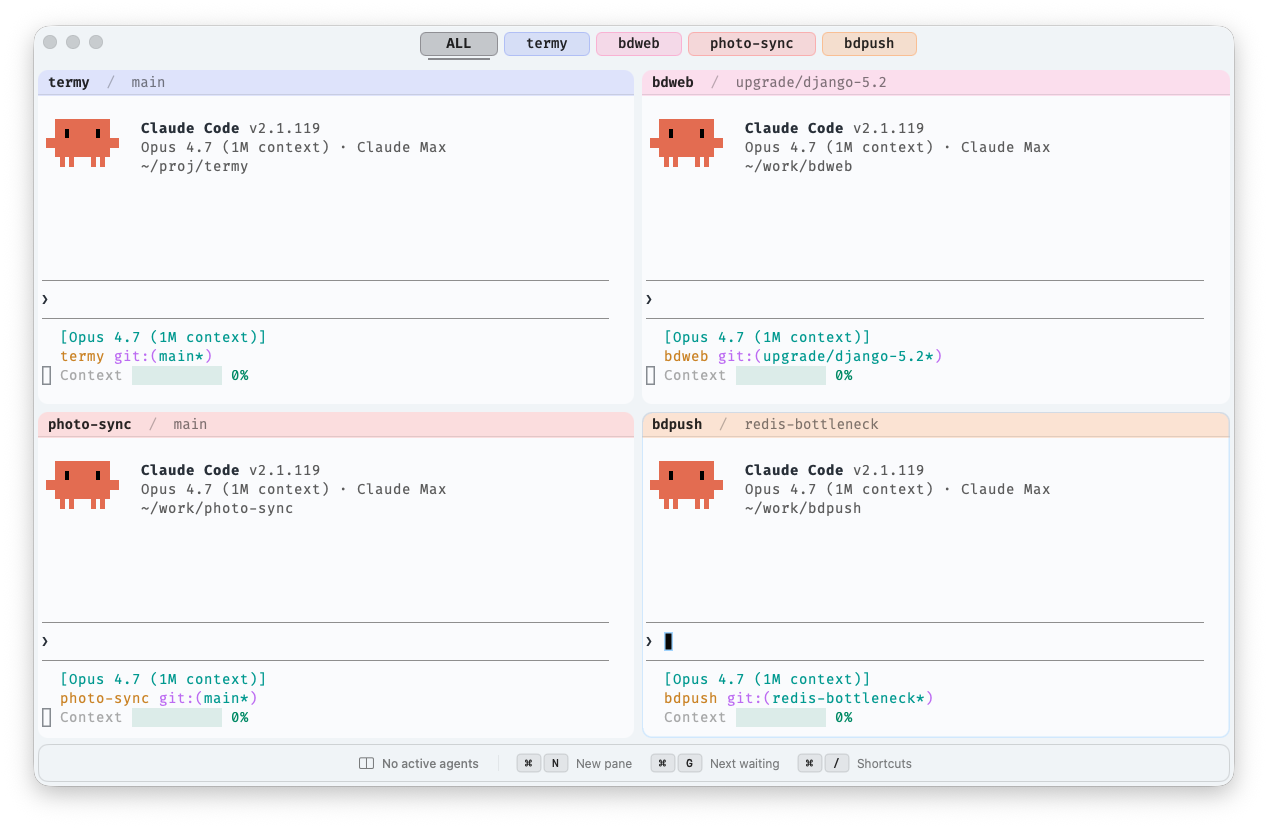
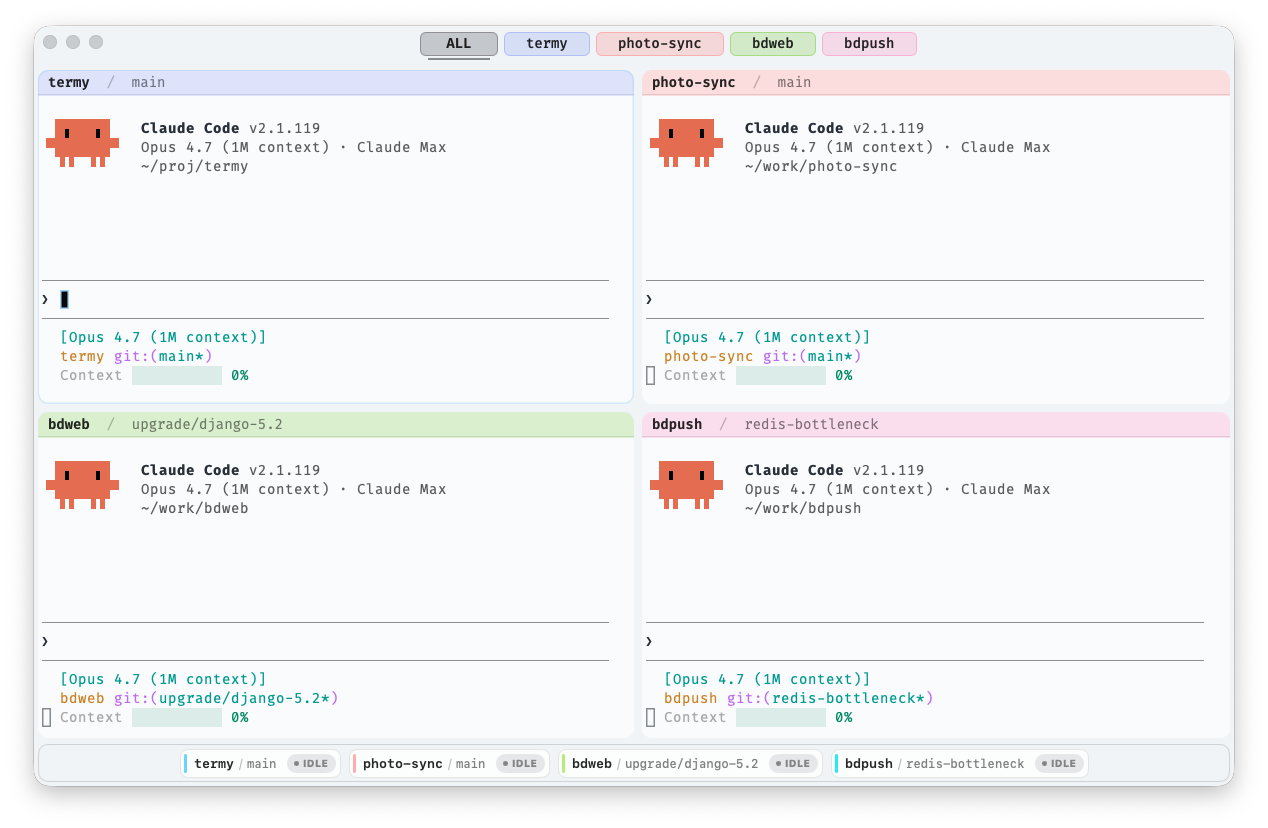
docs: refresh README screenshots
Update dashboard and project-filter screenshots for the chip redesign,
drop the duplicate light-theme hero and the standalone dashboard-3 hint
shot, and rename switch-project-1.png to pane-filter.png to match how
the section reads now.

diff --git a/README.md b/README.md
@@ -16,10 +16,6 @@
 </p>
 
 <p align="center">
-  <img src="docs/screenshots/s0-light.png" width="760" alt="Same view in light theme" />
-</p>
-
-<p align="center">
   <em>Press <kbd>⌘</kbd><kbd>G</kbd> to jump straight to the next <b>WAIT</b> agent.</em>
 </p>
 
@@ -48,7 +44,7 @@ dashboard chip, filter pill — so a four-agent window stops looking like a
 soup of identical black rectangles.
 
 <p align="center">
-  <img src="docs/screenshots/switch-project-1.png" width="620" alt="Filter bar with numbered project pills visible while holding ⌘" />
+  <img src="docs/screenshots/pane-filter.png" width="620" alt="Filter bar with numbered project pills visible while holding ⌘" />
 </p>
 
 **Hold <kbd>⌘</kbd>** and a number appears on every filter pill. Press the
@@ -80,10 +76,6 @@ Code. Each chip shows **project / branch** and a live state:
 <kbd>⌘</kbd><kbd>G</kbd> jumps to the next `WAIT` pane, wherever it is —
 across splits, across project filters. The single most useful keystroke in
 the app.
-
-<p align="center">
-  <img src="docs/screenshots/dashboard-3.png" width="620" alt="Dashboard chips with numbered badges visible while holding ⌘⌥" />
-</p>
 
 **Hold <kbd>⌘</kbd><kbd>⌥</kbd>** and a number appears on each dashboard
 chip; press the number to focus that pane directly, even if it's in a
